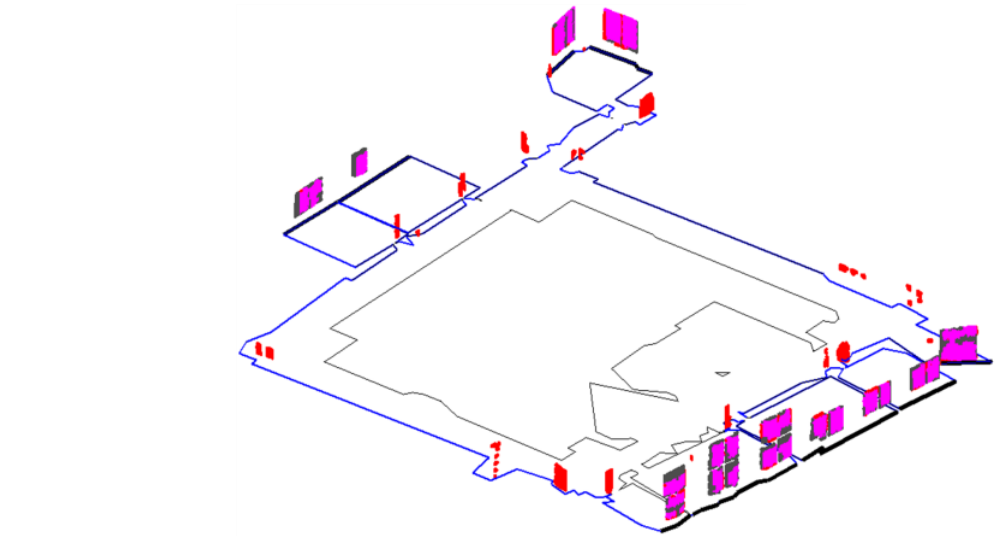
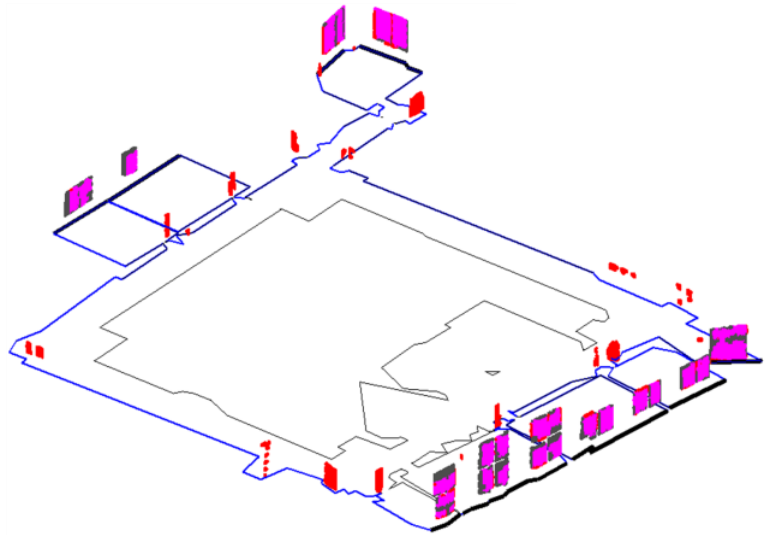
added colorization

diff --git a/index.html b/index.html
@@ -40,35 +40,57 @@
         <font face="helvetica, ariel, &#39;sans serif&#39;">
             <table cellspacing="15">
 				<tbody><tr>
-					<td width="45%">
-						<img width="350" align="center" src="./index_files/icra2015.png" border="0">
+                    <td width="30%" align=center>
+                        <img height="90" align="center" src="./index_files/arxiv2016_colorization.jpg" border="0">
+                            </td>
+                    <td>
+<!--                         <b><a href="http://richzhang.github.io/colorization/">Colorful Image Colorization</a></b> -->
+                        <b><span style="font-size: 16pt;">Colorful Image Colorization</span></b>
+                        <br>
+                        <b>Richard Zhang</b>, <a href="http://web.mit.edu/phillipi/">Phillip Isola</a>,
+                        <a href="http://www.eecs.berkeley.edu/~efros/">Alyosha Efros</a>        <br>
+                        In <em>submission</em>
+                        <br>
+                        [<a href="put in arxiv">Paper 10MB</a>]
+                        <!-- [<a href="http://richzhang.github.io/colorization/resources/supp.pdf">Supp 1MB</a>] -->
+                        [<a href="http://richzhang.github.io/colorization/">Webpage</a>]
+                        [<a href="https://github.com/richzhang/colorization">Demo</a>]
+                    </td>
+                </tr>
+                <tr>
+
+					<td width="30%" align="left">
+						<img height="90" align="center" src="./index_files/icra2015.png" border="0">
 							</td>
 					<td>
-						<b>Sensor Fusion for Semantic Segmentation of Urban Scenes</b>
+                        <b><span style="font-size: 16pt;">Sensor Fusion for Semantic Segmentation of Urban Scenes</span></b>
 						<br>
 						<b>Richard Zhang</b>, Stefan Candra, Kai Vetter</a>,
                         <a href="http://www-video.eecs.berkeley.edu/~avz/">Avideh Zakhor</a>		<br>
 						In <em>ICRA 2015</em>
 						<br>
-						<br>
 						[<a href="http://citeseerx.ist.psu.edu/viewdoc/download?doi=10.1.1.649.303&rep=rep1&type=pdf">PDF</a>]
-                        [KITTI Annotations <a href="http://www.eecs.berkeley.edu/~rich.zhang/projects/2015_ICRA_semanticsegmentation/KITTI_public.tar">tar</a> <a href="http://www.eecs.berkeley.edu/~rich.zhang/projects/2015_ICRA_semanticsegmentation/KITTI_public.zip">zip</a>]
+
+                        KITTI Annotations [<a href="http://www.eecs.berkeley.edu/~rich.zhang/projects/2015_ICRA_semanticsegmentation/KITTI_public.tar">tar</a> <a href="http://www.eecs.berkeley.edu/~rich.zhang/projects/2015_ICRA_semanticsegmentation/KITTI_public.zip">zip</a>]
+
+                        [<a href="https://scholar.google.com/scholar.bib?q=info:DzUPNEIO2poJ:scholar.google.com/&output=citation&scisig=AAGBfm0AAAAAVvmsoGmJP7CdOKDz6s9ptlA_j2lgJmBD&scisf=4&hl=en">Bibtex</a>]
 					</td>
 				</tr>  
                 <tr>
-                    <td width="45%">
-                        <img width="300" horizontal-align="center" src="./index_files/wacv2014.png" border="0">
+                    <td width="30%" align="center">
+                        <img height="100" horizontal-align="center" src="./index_files/wacv2014.png" border="0">
                             </td>
                     <td>
-                        <b>Automatic Identification of Window Regions on Indoor Point Clouds Using LiDAR and Cameras</b>
+                        <b><span style="font-size: 16pt;">Automatic Identification of Window Regions on Indoor Point Clouds Using LiDAR and Cameras</span></b>
                         <br>
                         <b>Richard Zhang</b>,
                         <a href="http://www-video.eecs.berkeley.edu/~avz/">Avideh Zakhor</a>
                         <br>
-                        In <em>WACV 2015</em>
-                        <br>
+                        In <em>WACV 2014</em>
                         <br>
                         [<a href="http://citeseerx.ist.psu.edu/viewdoc/download?doi=10.1.1.649.303&rep=rep1&type=pdf">PDF</a>]
+
+                        [<a href="https://scholar.google.com/scholar.bib?q=info:BxFaFKGWoPoJ:scholar.google.com/&output=citation&scisig=AAGBfm0AAAAAVvms4c3adlmwIcSQCc2B-erj0h1oEIcb&scisf=4&hl=en">Bibtex</a>]
                         <!--[<a href="./index_files/icra2015.png"> Project Page</a>]-->
                     </td>
                 </tr>
